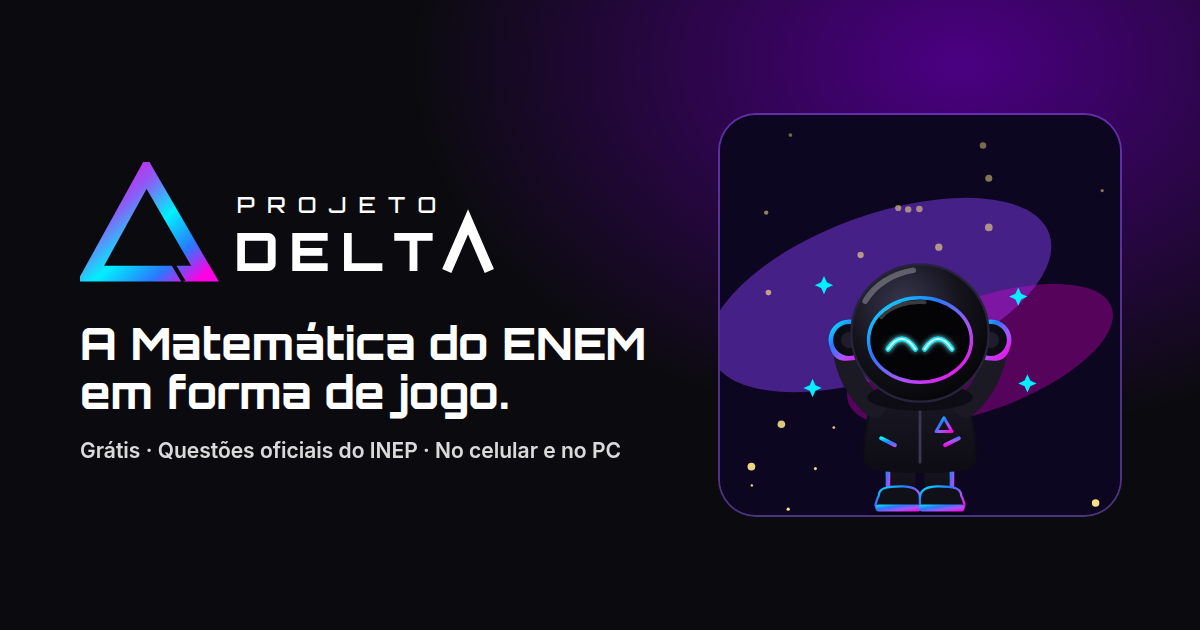
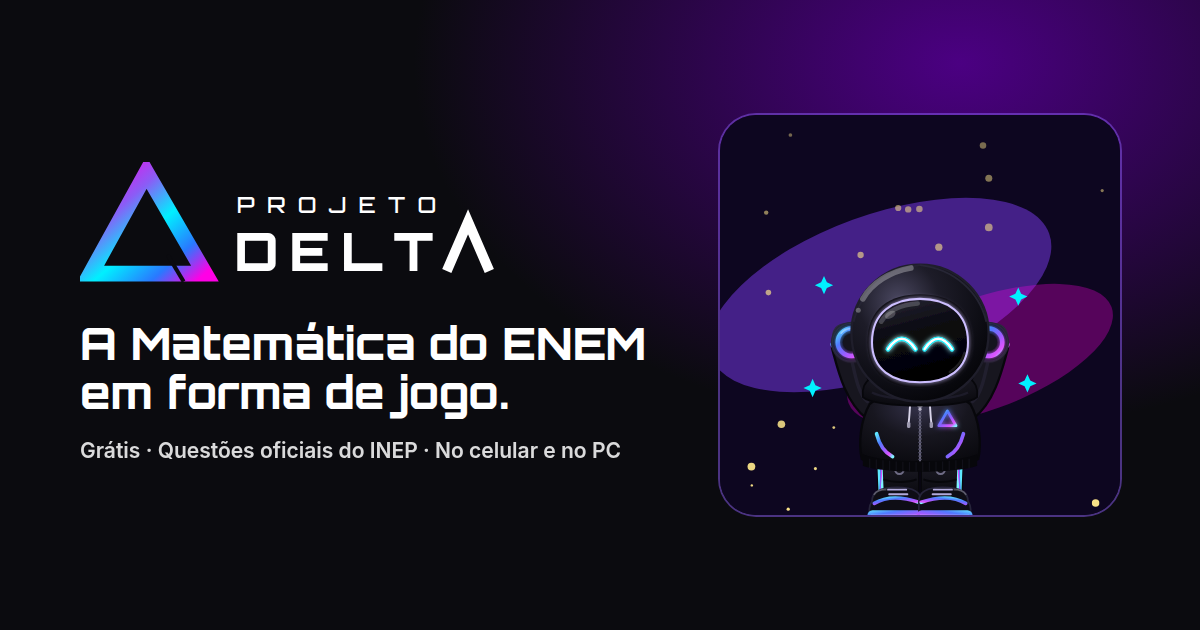
Redesenha o astronauta Delta fiel à folha oficial do mascote
- Capacete preto brilhante com visor de aro lilás e olhos Δ vazados
- Fones com anel iridescente, capuz, zíper, cordões e logo Δ no peito
- Mãos nos bolsos com friso iridescente, manga com "DELTA"
- Calça com faixas iridescentes e argolas; tênis cano alto com sola iridescente
- Primeiro acesso começa no visual oficial
- Folha de referência salva em design/Mascot-astronauta

Claude-Session: https://claude.ai/code/session_01WuuCwjhdpbQeArvjr4Q14Q

Changed region(s): [[0.6783, 0.4222, 0.8633, 0.8444]]

diff --git a/site/app/mascot.js b/site/app/mascot.js
@@ -62,7 +62,7 @@ const EULER = `<g fill="#f8fafc" stroke="#cbd5e1" stroke-width="2">
   <circle cx="30" cy="100" r="12"/><circle cx="170" cy="100" r="12"/></g>`;
 
 function eyes(expr, color) {
-  const tri = (cx, cy, s = 11) => `M${cx} ${cy - s} L${cx + s * 0.95} ${cy + s * 0.65} L${cx - s * 0.95} ${cy + s * 0.65} Z`;
+  const tri = (cx, cy, s = 12.5) => `M${cx} ${cy - s} L${cx + s * 0.95} ${cy + s * 0.65} L${cx - s * 0.95} ${cy + s * 0.65} Z`;
   let d = "", extra = "";
   switch (expr) {
     case "feliz": case "comemorando":
@@ -82,7 +82,7 @@ function eyes(expr, color) {
   }
   return `<g class="dm-eyes" filter="url(#dmglow)">
     <path d="${d}" fill="none" stroke="${color}" stroke-width="4.2" stroke-linecap="round" stroke-linejoin="round"/>
-    <path d="${d}" fill="none" stroke="#fff" stroke-width="1.6" stroke-linecap="round" stroke-linejoin="round" opacity=".9"/>${extra}</g>`;
+    <path d="${d}" fill="none" stroke="#fff" stroke-width="2.2" stroke-linecap="round" stroke-linejoin="round"/>${extra}</g>`;
 }
 
 export function deltaSVG(o = {}) {
@@ -92,72 +92,116 @@ export function deltaSVG(o = {}) {
   const eyeColor = o.acessorio === "oculos-vermelhos" ? "#ff3b3b" : glow;
   const white = o.cabeca === "capacete-astro";
   const suit = o.corpo === "traje-astro";
-  const cloth = suit ? "#e6e7ef" : "#1a1924";
-  const clothD = suit ? "#b9bccb" : "#0e0d15";
   const up = expr === "comemorando";
   const think = expr === "pensando";
   const hat = o.cabeca && HATS[o.cabeca] ? `<g transform="${HAT_T}">${HATS[o.cabeca]()}</g>` : o.cabeca === "peruca-euler" ? EULER : "";
-  const IRI = `url(#dmiri${k})`;
-  const armL = up ? `<path d="M60 136 C44 122 36 104 34 88" stroke="${cloth}" stroke-width="20" stroke-linecap="round" fill="none"/><circle cx="34" cy="84" r="11" fill="${clothD}" stroke="${IRI}" stroke-width="2.5"/>`
-    : `<path d="M58 136 C50 150 56 162 70 168" stroke="${cloth}" stroke-width="20" stroke-linecap="round" fill="none"/>`;
-  const armR = up ? `<path d="M140 136 C156 122 164 104 166 88" stroke="${cloth}" stroke-width="20" stroke-linecap="round" fill="none"/><circle cx="166" cy="84" r="11" fill="${clothD}" stroke="${IRI}" stroke-width="2.5"/>`
-    : think ? `<path d="M142 136 C160 138 150 120 134 118" stroke="${cloth}" stroke-width="20" stroke-linecap="round" fill="none"/><circle cx="132" cy="118" r="10" fill="${clothD}" stroke="${IRI}" stroke-width="2.5"/>`
-    : `<path d="M142 136 C150 150 144 162 130 168" stroke="${cloth}" stroke-width="20" stroke-linecap="round" fill="none"/>`;
-  const handAcc = o.acessorio === "calculadora" ? `<g transform="translate(${up ? -2 : 6} ${up ? -86 : 0})"><rect x="140" y="150" width="22" height="30" rx="4" fill="#334155" stroke="#94a3b8" stroke-width="1.5"/><rect x="143" y="153" width="16" height="7" rx="1.5" fill="#a7f3d0"/>
+  const IRI = `url(#dmiri${k})`, CL = `url(#dmcl${k})`, CLS = `url(#dmcls${k})`;
+  const base = suit ? "#e7e8f0" : "#17161f", deep = suit ? "#aeb2c3" : "#07070b", lite = suit ? "#ffffff" : "#34324a";
+  const seam = suit ? "#9ea3b6" : "#2b2a3b";
+
+  // mangas: mãos no bolso (padrão), braços para cima (comemorando) ou mão no queixo (pensando)
+  const sleeveDown = side => {
+    const m = side < 0 ? "" : ` transform="translate(200 0) scale(-1 1)"`;
+    return `<g${m}>
+      <path d="M60 134 C47 142 42 158 45 172 C47 180 55 184 63 182 L76 177 C73 166 69 152 69 138 Z" fill="${CLS}" stroke="${deep}" stroke-width="1.5"/>
+      <path d="M52 146 C50 156 51 166 55 174" stroke="${lite}" stroke-width="2" fill="none" opacity=".35" stroke-linecap="round"/>
+      <path d="M49 168 C52 176 58 180 66 179" stroke="${deep}" stroke-width="2.4" fill="none" stroke-linecap="round" opacity=".8"/></g>`;
+  };
+  const sleeveUp = (side, tx, ty) => {
+    const sx = 100 + side * 40, ex = 100 + side * tx;
+    return `<path d="M${sx} 138 C${sx + side * 16} 126 ${ex - side * 4} ${ty + 22} ${ex} ${ty + 8}" stroke="${deep}" stroke-width="24" stroke-linecap="round" fill="none"/>
+      <path d="M${sx} 138 C${sx + side * 16} 126 ${ex - side * 4} ${ty + 22} ${ex} ${ty + 8}" stroke="${base}" stroke-width="20" stroke-linecap="round" fill="none"/>
+      <path d="M${sx + side * 6} 132 C${sx + side * 16} 124 ${ex - side * 8} ${ty + 22} ${ex - side * 4} ${ty + 12}" stroke="${lite}" stroke-width="3" stroke-linecap="round" fill="none" opacity=".35"/>
+      <ellipse cx="${ex}" cy="${ty + 6}" rx="11" ry="4" fill="none" stroke="${IRI}" stroke-width="3"/>
+      <circle cx="${ex}" cy="${ty - 2}" r="10" fill="#0c0b12" stroke="#2c2a3c" stroke-width="1.5"/><path d="M${ex - 5} ${ty - 7} a6 6 0 0 1 7 -2" stroke="#fff" stroke-width="1.6" fill="none" opacity=".3" stroke-linecap="round"/>`;
+  };
+  const armsBack = up ? sleeveUp(-1, 66, 76) + sleeveUp(1, 66, 76) : "";
+  const armsFront = up ? "" : sleeveDown(-1) + (think ? "" : sleeveDown(1));
+  const armThink = think ? sleeveUp(1, 40, 112) : "";
+  const pocket = side => { const x = side < 0 ? 0 : 200, f = side < 0 ? 1 : -1;
+    return `<path d="M${x + f * 62} 160 C${x + f * 64} 168 ${x + f * 68} 176 ${x + f * 76} 180" stroke="${IRI}" stroke-width="3.2" fill="none" stroke-linecap="round"/>`; };
+
+  const handAcc = o.acessorio === "calculadora" ? `<g transform="translate(${up ? 8 : 4} ${up ? -94 : 4})"><rect x="140" y="150" width="22" height="30" rx="4" fill="#334155" stroke="#94a3b8" stroke-width="1.5"/><rect x="143" y="153" width="16" height="7" rx="1.5" fill="#a7f3d0"/>
       ${[0,1,2].map(r => [0,1,2].map(c => `<rect x="${143 + c*5.5}" y="${163 + r*5}" width="4" height="3.4" rx="1" fill="#e2e8f0"/>`).join("")).join("")}</g>`
-    : o.acessorio === "lapis-dourado" ? `<g transform="translate(${up ? 14 : 0} ${up ? -84 : 0}) rotate(-30 150 165)"><rect x="146" y="130" width="9" height="40" rx="2" fill="#facc15" stroke="#a16207" stroke-width="1.5"/>
+    : o.acessorio === "lapis-dourado" ? `<g transform="translate(${up ? 20 : 2} ${up ? -92 : 0}) rotate(-30 150 165)"><rect x="146" y="130" width="9" height="40" rx="2" fill="#facc15" stroke="#a16207" stroke-width="1.5"/>
       <path d="M146 170 L150.5 181 L155 170 Z" fill="#fde68a" stroke="#a16207" stroke-width="1.2"/><rect x="146" y="126" width="9" height="6" rx="2" fill="#f472b6"/></g>` : "";
   const mask = o.acessorio === "mascara-carnaval" ? `<g transform="translate(0,-22)">
       <path d="M58 96 C66 84 86 84 96 98 C100 102 100 102 104 98 C114 84 134 84 142 96 C144 112 128 122 116 116 C108 112 104 108 100 108 C96 108 92 112 84 116 C72 122 56 112 58 96 Z" fill="#a855f7" stroke="#7e22ce" stroke-width="2" opacity=".92"/>
       <path d="M138 90 C148 70 160 66 168 60 M142 92 C156 78 166 78 174 74" stroke="#f472b6" stroke-width="4" stroke-linecap="round" fill="none"/></g>` : "";
-  const cape = o.corpo === "capa-super" ? `<path d="M62 128 C44 160 40 196 48 222 L152 222 C160 196 156 160 138 128 Z" fill="#dc2626"/>` : "";
-  const capeFront = o.corpo === "capa-super" ? `<path d="M70 132 L100 124 L130 132 L126 140 L100 132 L74 140 Z" fill="#b91c1c"/>` : "";
-  const coat = o.corpo === "jaleco" ? `<path d="M52 186 L58 136 C66 128 80 126 88 128 L100 170 L112 128 C120 126 134 128 142 136 L148 186 Z" fill="#f8fafc" stroke="#cbd5e1" stroke-width="2.5"/>
+  const cape = o.corpo === "capa-super" ? `<path d="M60 128 C42 160 38 196 46 222 L154 222 C162 196 158 160 140 128 Z" fill="#dc2626"/><path d="M60 128 C48 160 46 196 52 222" stroke="#991b1b" stroke-width="3" fill="none"/>` : "";
+  const capeFront = o.corpo === "capa-super" ? `<path d="M70 130 L100 122 L130 130 L126 138 L100 130 L74 138 Z" fill="#b91c1c"/>` : "";
+  const coat = o.corpo === "jaleco" ? `<path d="M50 186 L56 136 C64 128 80 126 88 128 L100 170 L112 128 C120 126 136 128 144 136 L150 186 Z" fill="#f8fafc" stroke="#cbd5e1" stroke-width="2.5"/>
       <path d="M100 170 L100 188" stroke="#cbd5e1" stroke-width="2"/><rect x="118" y="150" width="16" height="11" rx="2" fill="none" stroke="#cbd5e1" stroke-width="2"/><path d="M123 144 L125 152" stroke="#3b82f6" stroke-width="3" stroke-linecap="round"/>` : "";
   const bag = o.corpo === "mochila-enem" ? `<path d="M66 132 L80 186 M134 132 L120 186" stroke="#f97316" stroke-width="6" stroke-linecap="round"/>
-      <rect x="146" y="140" width="22" height="42" rx="7" fill="#fb923c" stroke="#c2410c" stroke-width="2"/><text x="157" y="165" font-size="8" font-weight="800" text-anchor="middle" fill="#fff" font-family="Inter,sans-serif">ENEM</text>` : "";
-  const suitPanel = suit ? `<rect x="84" y="146" width="32" height="20" rx="5" fill="#cbd0dc"/><circle cx="93" cy="156" r="3.5" fill="#ef4444"/><circle cx="104" cy="156" r="3.5" fill="#22c55e"/><rect x="109" y="153" width="5" height="6" rx="1" fill="#3b82f6"/>` : "";
+      <rect x="148" y="140" width="22" height="42" rx="7" fill="#fb923c" stroke="#c2410c" stroke-width="2"/><text x="159" y="165" font-size="8" font-weight="800" text-anchor="middle" fill="#fff" font-family="Inter,sans-serif">ENEM</text>` : "";
+  const suitPanel = `<rect x="84" y="146" width="32" height="20" rx="5" fill="#cbd0dc" stroke="#9ea3b6"/><circle cx="93" cy="156" r="3.5" fill="#ef4444"/><circle cx="104" cy="156" r="3.5" fill="#22c55e"/><rect x="109" y="153" width="5" height="6" rx="1" fill="#3b82f6"/>`;
+
+  const leg = side => { const m = side < 0 ? "" : ` transform="translate(200 0) scale(-1 1)"`;
+    return `<g${m}>
+      <path d="M63 184 L99 184 L99 210 C99 216 94 218 84 218 C72 218 64 216 63 210 Z" fill="${CL}" stroke="${deep}" stroke-width="1.5"/>
+      <path d="M65 188 L66 212" stroke="${IRI}" stroke-width="4.5" stroke-linecap="round"/>
+      <path d="M78 190 C78 197 86 197 86 190" stroke="#6f6c86" stroke-width="1.8" fill="none"/><rect x="77" y="187" width="10" height="3" rx="1.5" fill="${seam}"/>
+      <path d="M68 200 C76 203 90 203 97 200" stroke="${deep}" stroke-width="1.6" fill="none"/>
+<g transform="translate(0 7)">      <path d="M58 212 C58 204 66 200 80 200 C93 200 101 204 101 212 L101 222 L56 222 C55 218 56 215 58 212 Z" fill="#0e0d15" stroke="#26243a" stroke-width="1.5"/>
+      <path d="M60 214 C70 208 84 208 99 213" stroke="${IRI}" stroke-width="3.2" fill="none" stroke-linecap="round"/>
+      <path d="M72 202 L88 202 M73 206 L89 206" stroke="#cfc6ff" stroke-width="1.6" stroke-linecap="round" opacity=".85"/>
+      <path d="M60 206 C62 203 66 202 70 202" stroke="#fff" stroke-width="1.6" fill="none" opacity=".25" stroke-linecap="round"/>
+      <rect x="54" y="220" width="49" height="9" rx="4.5" fill="${IRI}"/><path d="M57 224.5 L100 224.5" stroke="#fff" stroke-width="1" opacity=".55"/></g></g>`; };
 
   return `<svg class="dm-svg" viewBox="-12 -20 224 262" role="img" aria-label="Delta, o micro astronauta do Projeto Delta" xmlns="http://www.w3.org/2000/svg">
   <defs>
-    <linearGradient id="dmiri${k}" x1="0" y1="0" x2="1" y2="1"><stop offset="0" stop-color="#00f0ff"/><stop offset=".35" stop-color="#2979ff"/><stop offset=".65" stop-color="#a855f7"/><stop offset="1" stop-color="#ff00e5"/></linearGradient>
-    <radialGradient id="dmhel${k}" cx=".38" cy=".3" r=".75"><stop offset="0" stop-color="${white ? "#ffffff" : "#3a3850"}"/><stop offset=".55" stop-color="${white ? "#dfe2ec" : "#15141d"}"/><stop offset="1" stop-color="${white ? "#a9aec0" : "#050508"}"/></radialGradient>
-    <linearGradient id="dmcl${k}" x1="0" y1="0" x2="0" y2="1"><stop offset="0" stop-color="${cloth}"/><stop offset="1" stop-color="${clothD}"/></linearGradient>
+    <linearGradient id="dmiri${k}" x1="0" y1="0" x2="1" y2="1"><stop offset="0" stop-color="#5ee7ff"/><stop offset=".3" stop-color="#4f7bff"/><stop offset=".6" stop-color="#9b5cff"/><stop offset=".85" stop-color="#e055ff"/><stop offset="1" stop-color="#7df3ff"/></linearGradient>
+    <radialGradient id="dmhel${k}" cx=".34" cy=".26" r=".85"><stop offset="0" stop-color="${white ? "#ffffff" : "#4a4760"}"/><stop offset=".35" stop-color="${white ? "#eceef5" : "#1d1c28"}"/><stop offset=".8" stop-color="${white ? "#b9bdcc" : "#0a0a10"}"/><stop offset="1" stop-color="${white ? "#9096aa" : "#030305"}"/></radialGradient>
+    <linearGradient id="dmvis${k}" x1="0" y1="0" x2=".3" y2="1"><stop offset="0" stop-color="#2a2838"/><stop offset=".45" stop-color="#0b0b12"/><stop offset="1" stop-color="#010103"/></linearGradient>
+    <linearGradient id="dmcl${k}" x1="0" y1="0" x2="0" y2="1"><stop offset="0" stop-color="${lite}"/><stop offset=".25" stop-color="${base}"/><stop offset="1" stop-color="${deep}"/></linearGradient>
+    <linearGradient id="dmcls${k}" x1="0" y1="0" x2="1" y2="0"><stop offset="0" stop-color="${deep}"/><stop offset=".45" stop-color="${base}"/><stop offset=".7" stop-color="${lite}"/><stop offset="1" stop-color="${base}"/></linearGradient>
+    <radialGradient id="dmbody${k}" cx=".5" cy=".2" r=".9"><stop offset="0" stop-color="${lite}"/><stop offset=".45" stop-color="${base}"/><stop offset="1" stop-color="${deep}"/></radialGradient>
     <filter id="dmglow" filterUnits="userSpaceOnUse" x="-20" y="-30" width="240" height="280"><feGaussianBlur stdDeviation="2.4" result="b"/><feMerge><feMergeNode in="b"/><feMergeNode in="SourceGraphic"/></feMerge></filter>
   </defs>
-  <ellipse class="dm-shadow" cx="100" cy="234" rx="52" ry="7" fill="#000" opacity=".35"/>
+  <ellipse class="dm-shadow" cx="100" cy="239" rx="56" ry="7" fill="#000" opacity=".35"/>
   <g class="dm-all">
     ${cape}
-    <g class="dm-legs">
-      <rect x="70" y="178" width="26" height="40" rx="9" fill="url(#dmcl${k})"/><rect x="104" y="178" width="26" height="40" rx="9" fill="url(#dmcl${k})"/>
-      <rect x="70" y="182" width="4" height="32" rx="2" fill="${IRI}"/><rect x="126" y="182" width="4" height="32" rx="2" fill="${IRI}"/>
-      <path d="M64 214 C64 208 70 206 84 206 C96 206 100 210 100 216 L100 224 L62 224 C60 224 62 218 64 214 Z" fill="#101018" stroke="${IRI}" stroke-width="2"/>
-      <path d="M100 216 C100 210 104 206 116 206 C130 206 136 208 136 214 C138 218 140 224 138 224 L100 224 Z" fill="#101018" stroke="${IRI}" stroke-width="2"/>
-      <rect x="61" y="222" width="40" height="6" rx="3" fill="${IRI}"/><rect x="99" y="222" width="40" height="6" rx="3" fill="${IRI}"/>
-    </g>
-    <g class="dm-arm dm-arm-l">${up ? "" : armL}</g>
+    <g class="dm-legs">${leg(-1)}${leg(1)}</g>
+    <g class="dm-arm">${armsBack}</g>
     <g class="dm-body">
-      <path d="M60 132 C70 126 86 124 100 124 C114 124 130 126 140 132 C148 146 150 170 148 186 C132 192 68 192 52 186 C50 170 52 146 60 132 Z" fill="url(#dmcl${k})" stroke="${clothD}" stroke-width="2"/>
-      <path d="M54 184 C70 190 130 190 146 184 L146 190 C130 196 70 196 54 190 Z" fill="${clothD}"/>
-      ${suit ? suitPanel : `<path d="M100 128 L100 186" stroke="#3a3850" stroke-width="2.5"/><circle cx="100" cy="136" r="2.4" fill="#6b6985"/>
-        <path d="M121 146 L128 158 L114 158 Z" fill="none" stroke="${IRI}" stroke-width="2.6" stroke-linejoin="round"/>
-        <path d="M66 164 L78 170 M134 164 L122 170" stroke="${IRI}" stroke-width="3.5" stroke-linecap="round"/>`}
+      <path d="M56 134 C66 126 84 123 100 123 C116 123 134 126 144 134 C152 148 154 168 151 182 C134 190 66 190 49 182 C46 168 48 148 56 134 Z" fill="url(#dmbody${k})" stroke="${deep}" stroke-width="2"/>
+      <path d="M50 178 C68 186 132 186 150 178 L150 188 C132 195 68 195 50 188 Z" fill="${deep}"/>
+      ${Array.from({ length: 16 }, (_, i) => `<path d="M${56 + i * 5.8} ${182 + Math.sin(i / 15 * Math.PI) * 3} l0 8" stroke="${lite}" stroke-width="1" opacity=".22"/>`).join("")}
+      ${suit ? suitPanel : `
+      <path d="M100 126 L100 184" stroke="#7d7a90" stroke-width="1.4"/><path d="M100 128 L100 183" stroke="#4a4860" stroke-width="3.2" stroke-dasharray="1.2 1.8"/>
+      <rect x="97.6" y="129" width="4.8" height="8" rx="1.4" fill="#b9b6c9"/><circle cx="100" cy="138.5" r="1.4" fill="#b9b6c9"/>
+      <path d="M92 128 C91 136 91 144 90 151 M108 128 C109 136 109 144 110 151" stroke="#d9d5ea" stroke-width="1.7" fill="none" stroke-linecap="round"/>
+      <rect x="88.6" y="150" width="3" height="5" rx="1" fill="#9d9ab0"/><rect x="108.4" y="150" width="3" height="5" rx="1" fill="#9d9ab0"/>
+      <g filter="url(#dmglow)"><path d="M124 140 L131.5 153 L116.5 153 Z" fill="none" stroke="${IRI}" stroke-width="2.4" stroke-linejoin="round"/></g>
+      <path d="M72 132 C80 128 92 127 98 127" stroke="${lite}" stroke-width="2" fill="none" opacity=".4" stroke-linecap="round"/>`}
+      ${pocket(-1)}${pocket(1)}
       ${coat}${bag}${capeFront}
     </g>
-    <g class="dm-arm dm-arm-l2">${up ? armL : ""}</g>
-    <g class="dm-arm dm-arm-r">${armR}</g>
+    <g class="dm-arm dm-arm-f">${armsFront}
+      ${up || suit ? "" : `<text x="0" y="0" transform="translate(52 170) rotate(-78)" font-family="Orbitron,Inter,sans-serif" font-size="5.2" font-weight="800" fill="#d9d5ea" letter-spacing=".5">DELTA</text>`}</g>
     ${handAcc}
     <g class="dm-head">
-      <ellipse cx="100" cy="128" rx="46" ry="12" fill="${clothD}"/>
-      <circle cx="38" cy="78" r="16" fill="#0d0c14" stroke="${IRI}" stroke-width="4"/><circle cx="38" cy="78" r="7" fill="#1f1d2c"/>
-      <circle cx="162" cy="78" r="16" fill="#0d0c14" stroke="${IRI}" stroke-width="4"/><circle cx="162" cy="78" r="7" fill="#1f1d2c"/>
-      <circle cx="100" cy="72" r="60" fill="url(#dmhel${k})" stroke="${white ? "#9ca3b8" : "#26243a"}" stroke-width="2"/>
-      <ellipse cx="100" cy="78" rx="45" ry="37" fill="#040407" stroke="${IRI}" stroke-width="3"/>
-      <path d="M66 58 C74 48 90 44 104 45" stroke="#fff" stroke-width="3.5" stroke-linecap="round" fill="none" opacity=".22"/>
-      <path d="M52 44 C60 30 76 20 94 17" stroke="#fff" stroke-width="5" stroke-linecap="round" fill="none" opacity="${white ? ".7" : ".28"}"/>
+      <path d="M50 128 C48 112 62 106 74 112 C84 104 116 104 126 112 C138 106 152 112 150 128 C140 138 60 138 50 128 Z" fill="url(#dmbody${k})" stroke="${deep}" stroke-width="1.5"/>
+      <path d="M58 124 C74 132 126 132 142 124" stroke="${lite}" stroke-width="2" fill="none" opacity=".35"/>
+      <g class="dm-phones">
+        <circle cx="40" cy="80" r="17" fill="#0c0b12" stroke="#23212f" stroke-width="2"/><circle cx="40" cy="80" r="12" fill="none" stroke="${IRI}" stroke-width="4" filter="url(#dmglow)"/><circle cx="40" cy="80" r="7.5" fill="#15141e"/>
+        <circle cx="160" cy="80" r="17" fill="#0c0b12" stroke="#23212f" stroke-width="2"/><circle cx="160" cy="80" r="12" fill="none" stroke="${IRI}" stroke-width="4" filter="url(#dmglow)"/><circle cx="160" cy="80" r="7.5" fill="#15141e"/>
+        <path d="M31 72 a11 11 0 0 1 8 -4 M151 72 a11 11 0 0 1 8 -4" stroke="#fff" stroke-width="1.5" fill="none" opacity=".35" stroke-linecap="round"/>
+      </g>
+      <circle cx="100" cy="72" r="60" fill="url(#dmhel${k})" stroke="${white ? "#8f95a8" : "#1f1e2b"}" stroke-width="2"/>
+      <path d="M100 12.5 C130 16 152 36 158 62" stroke="${seam}" stroke-width="1.6" fill="none" opacity=".8"/>
+      <path d="M100 12.5 C70 16 48 36 42 62" stroke="${seam}" stroke-width="1.6" fill="none" opacity=".5"/>
+      <path d="M54 80 C54 50 74 38 100 38 C126 38 146 50 146 80 C146 108 126 120 100 120 C74 120 54 108 54 80 Z" fill="#050508"/>
+      <path d="M58 80 C58 54 76 42 100 42 C124 42 142 54 142 80 C142 104 124 115 100 115 C76 115 58 104 58 80 Z" fill="url(#dmvis${k})" stroke="#cdbfff" stroke-width="1.8" filter="url(#dmglow)"/>
+      <path d="M66 62 C72 52 84 47 98 46" stroke="#fff" stroke-width="4" stroke-linecap="round" fill="none" opacity=".2"/>
+      <ellipse cx="74" cy="56" rx="5" ry="3" fill="#fff" opacity=".22" transform="rotate(-30 74 56)"/>
+      <path d="M126 106 C132 102 137 96 139 89" stroke="#fff" stroke-width="2" stroke-linecap="round" fill="none" opacity=".12"/>
+      <path d="M50 42 C58 28 74 18 92 15" stroke="#fff" stroke-width="5" stroke-linecap="round" fill="none" opacity="${white ? ".75" : ".3"}"/>
+      <circle cx="46" cy="52" r="2.2" fill="#fff" opacity="${white ? ".6" : ".3"}"/>
       ${eyes(expr, eyeColor)}
       ${mask}${hat}
     </g>
+    <g class="dm-arm dm-arm-t">${armThink}</g>
     ${think ? `<g class="dm-think"><circle cx="170" cy="30" r="4" fill="#fff"/><circle cx="182" cy="14" r="6" fill="#fff"/>
       <circle cx="196" cy="-6" r="15" fill="#fff"/><text x="196" y="1" text-anchor="middle" font-size="20" font-weight="800" fill="#7c3aed" font-family="Inter,sans-serif">?</text></g>` : ""}
     ${expr === "dormindo" ? `<g class="dm-zzz" font-family="Orbitron,Inter,sans-serif" font-weight="800" fill="${glow}"><text x="150" y="24" font-size="18">z</text><text x="166" y="8" font-size="14">z</text><text x="178" y="-6" font-size="11">z</text></g>` : ""}

diff --git a/site/app/auth.js b/site/app/auth.js
@@ -141,12 +141,12 @@ export function viewRedefinir() {
 // ============================================================
 // PRIMEIRO ACESSO: criar o astronauta, nome, @ e meta
 // ============================================================
-const INICIAIS = [["capacete-astro", "Capacete branco"], ["bone-azul", "Boné azul"], ["tiara", "Tiara"], [null, "Sem nada"]];
+const INICIAIS = [[null, "Visual oficial"], ["capacete-astro", "Capacete branco"], ["bone-azul", "Boné azul"], ["tiara", "Tiara"]];
 const METAS = [[20, "Casual", "5 min por dia", "idle"], [50, "Regular", "10 min por dia", "feliz"], [100, "Intenso", "20 min por dia", "comemorando"]];
 
 export function viewOnboarding(onDone) {
   const nome0 = (state.profile?.nome || "").trim();
-  const d = { nome: nome0, user: "", cor: "teal", ini: "capacete-astro", meta: 50 };
+  const d = { nome: nome0, user: "", cor: "teal", ini: null, meta: 50 };
   let step = 0, userOk = false, chkT;
   const TOTAL = 6;
   const w = h(`<div class="ob"><div class="ob-top"><button class="back" aria-label="Voltar" hidden>${ic("back")}</button><div class="pbar"><i></i></div></div><div class="ob-body"></div></div>`);
@@ -227,7 +227,7 @@ export function viewOnboarding(onDone) {
     }
   };
   const item = {
-    html: () => `<h1>Seu primeiro item é presente</h1><p class="lead">Depois você ganha Deltas e compra muito mais na loja.</p>
+    html: () => `<h1>Quer um item de presente?</h1><p class="lead">Fique com o visual oficial ou escolha um item grátis. Depois você compra muito mais na loja.</p>
       <div class="stage">${fundoSVG("espaco")}<div class="dm dm-live" id="m">${deltaSVG({ ...look(), expr: "feliz" })}</div></div>
       <div class="picks">${INICIAIS.map(([id, n]) => `<button class="pick ${d.ini === id ? "on" : ""}" data-i="${id || ""}"><div class="dm">${deltaSVG({ cor: d.cor, cabeca: id, expr: "idle" })}</div>${n}</button>`).join("")}</div>
       <div class="ob-foot"><button class="btn btn-lime btn-block" id="n">Continuar</button></div>`,

diff --git a/site/app/app.css b/site/app/app.css
@@ -285,7 +285,7 @@ input,select,textarea{font:inherit;font-size:16px;color:var(--ink)}
 .dm{position:relative}
 .dm-svg{width:100%;height:auto;overflow:visible}
 .dm-live .dm-all{animation:dmBob 3.2s ease-in-out infinite;transform-box:view-box;transform-origin:100px 205px}
-.dm-live .dm-eyes{animation:dmBlink 5.5s infinite;transform-box:view-box;transform-origin:100px 104px}
+.dm-live .dm-eyes{animation:dmBlink 5.5s infinite;transform-box:view-box;transform-origin:100px 80px}
 .dm-live .dm-spark{animation:twinkle 1s ease-in-out infinite alternate}
 .dm-live .dm-think{animation:dmFloat 2s ease-in-out infinite}
 .dm-live .dm-zzz text{animation:zz 2.4s ease-in-out infinite}

diff --git a/site/sw.js b/site/sw.js
@@ -1,5 +1,5 @@
 /* Projeto Delta · service worker: abre offline e carrega rápido. Nunca guarda dados do Supabase. */
-const V = "delta-v4";
+const V = "delta-v5";
 const CORE = [
   "/app/", "/app/app.css", "/app/app.js", "/app/core.js", "/app/auth.js", "/app/learn.js", "/app/pages.js",
   "/app/ui.js", "/app/mascot.js", "/app/icons.js", "/app/sfx.js", "/app/content.js", "/app/bank.js", "/app/config.js",
